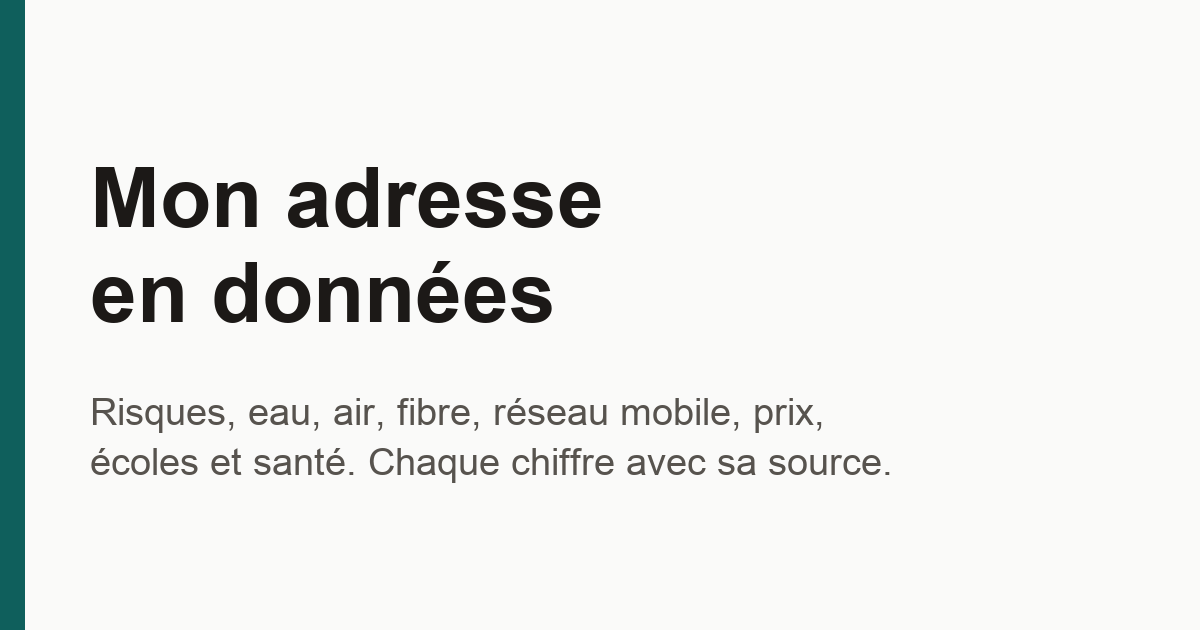
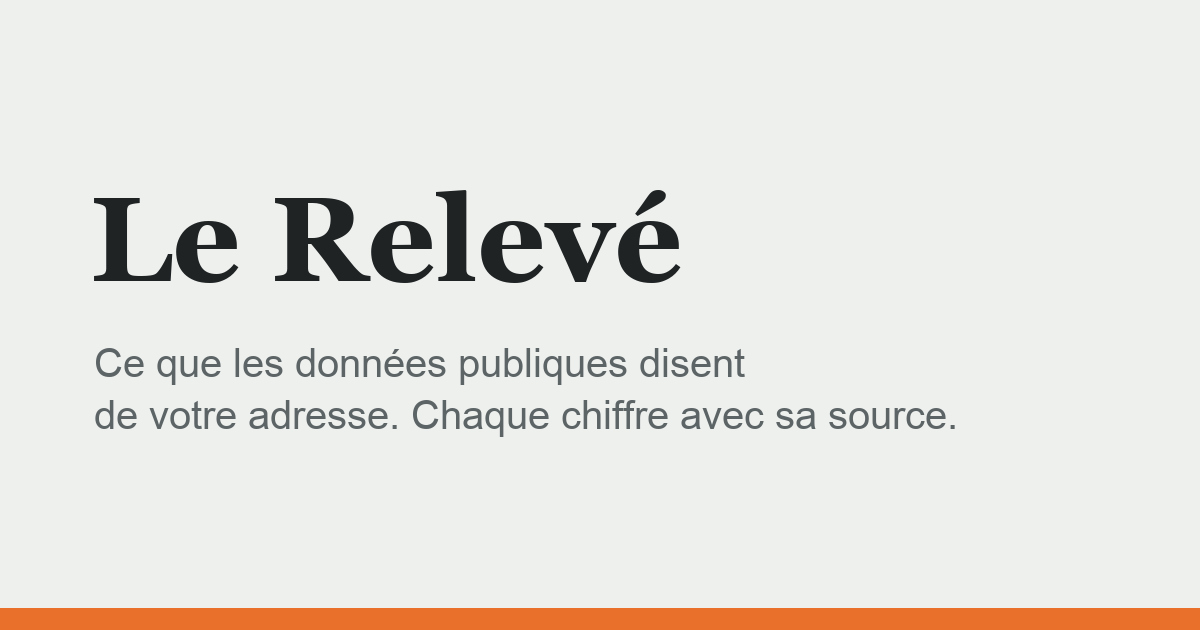
Rename the project to Le Relevé; rewrite the English and French READMEs

diff --git a/src/scripts/app.ts b/src/scripts/app.ts
@@ -265,7 +265,7 @@ const showSheet = async (point: Point) => {
     sheetMap.setRoute(undefined);
     sheetMap.setMarkers([{ ...place, label: place.label, kind: 'main' }]);
     revealTimer = setTimeout(reveal, STAGE_TIMEOUT_MS);
-    document.title = `${place.label} · Mon adresse en données`;
+    document.title = `${place.label} · Le Relevé`;
     meta.textContent = `Commune : ${place.city} (INSEE ${place.citycode}). Précision de la localisation : ${precisionOf(place.type)}.`;
     mountBlocks($('blocks'), BLOCKS, {
       lat: place.lat, lon: place.lon, label: place.label,
@@ -293,7 +293,7 @@ const route = () => {
   if (point) return showSheet(point);
   sheet.hidden = true;
   search.hidden = false;
-  document.title = 'Mon adresse en données';
+  document.title = 'Le Relevé';
   if (location.hash.length > 1) status.textContent = 'Ce lien ne contient pas de coordonnées valides.';
 };
 addEventListener('hashchange', route);

diff --git a/README.fr.md b/README.fr.md
@@ -1,23 +1,71 @@
-# Mon adresse en données
+# Le Relevé
 
 [English](README.md)
 
-Tapez une adresse en France et obtenez une fiche claire et sourcée sur cet endroit : risques naturels et industriels, eau du robinet, air, bruit, fibre et réseau mobile, prix de l'immobilier, écoles, santé et commerces. Les données sont ouvertes mais éparpillées sur une dizaine de sites ; ce projet les rassemble, les explique et cite la source de chaque chiffre.
+**Ce que les données publiques disent de n'importe quelle adresse en France, avec la source de chaque chiffre.**
+
+Tapez une adresse et obtenez une fiche claire sur l'endroit : risques naturels et industriels, qualité de l'eau du robinet, qualité de l'air, bruit des aéroports, fibre et réseau mobile, prix de l'immobilier, écoles, santé et commerces du quotidien. Ces données sont ouvertes mais éparpillées sur une dizaine de sites officiels ; Le Relevé les rassemble, les explique simplement et relie chaque chiffre à sa source.
+
+Pour celles et ceux qui déménagent, achètent, louent, ou sont simplement curieux de leur quartier.
+
+## Ce que montre la fiche
+
+| Thème | Contenu | Précision |
+|---|---|---|
+| Risques | zones inondables, argiles, sismicité, radon, plans de prévention, catastrophes naturelles reconnues depuis 1996, sites pollués et installations classées proches | point ou commune |
+| Eau du robinet | conformité du dernier prélèvement, nitrates, PFAS, pesticides, comparés aux limites réglementaires | réseau d'eau de la commune |
+| Air | indice ATMO du jour et du lendemain | commune |
+| Bruit | plans d'exposition et de gêne sonore des aéroports | zone |
+| Internet fixe | part des locaux raccordables à la fibre, meilleure technologie, débits, date de fermeture du cuivre | commune |
+| Réseau mobile | couverture 4G et 5G par opérateur (simulations des opérateurs) | carreau de 200 m |
+| Immobilier | prix médian au m² des appartements et des maisons, évolution annuelle | commune |
+| Écoles | écoles publiques proches, collège de secteur, lycée le plus proche | point, adresse pour le collège |
+| Santé | pharmacies, généralistes et urgences les plus proches | point |
+| Commerces | boulangerie, supérette, supermarché, poste, banque les plus proches… | point |
+
+Les distances sont **à pied**, calculées sur le réseau routier de l'IGN pour les lieux à moins de 3 km, à vol d'oiseau au-delà.
 
 ## Principes
 
-- **Vie privée** : l'adresse n'arrive jamais sur un serveur à nous. Elle part seulement aux API publiques qui en ont besoin, d'abord le géocodage. Le lien partageable garde le lieu dans le fragment d'URL (`#lat,lon`), que le navigateur n'envoie ni aux serveurs ni à l'outil d'audience.
-- **Sources** : chaque indicateur affiche sa source, sa date de mise à jour et sa précision (adresse, bâtiment, commune). Pas de « note du quartier ».
-- **Limites assumées** : une donnée absente ou seulement communale est signalée. Les cartes de couverture mobile sont des simulations des opérateurs, pas des mesures.
+- **Vie privée.** L'adresse n'arrive jamais sur un serveur à nous : il n'y en a pas. Elle part seulement aux API publiques qui en ont besoin, d'abord le géocodage. Le lieu est gardé dans le fragment de l'URL (`#lat,lon`), que le navigateur n'envoie ni aux serveurs ni à l'outil d'audience sans cookie (GoatCounter).
+- **Sources.** Chaque chiffre affiche sa source, sa date et sa précision. Chaque seuil (limites de qualité de l'eau, classes de l'indice ATMO, zones sismiques et radon, zones de bruit) vient d'un texte réglementaire, cité dans le code.
+- **Pas de note.** Pas de « quartier 7/10 » : le statut d'un thème compte seulement les alertes et vigilances déjà affichées, et une donnée manquante ne devient jamais « rien à signaler ».
+- **Limites assumées.** Données communales, simulations des opérateurs, délais de publication et territoires non couverts sont signalés sur la fiche.
 
-Le détail de chaque source, de son mode d'accès et de ses limites est dans [docs/sources.md](docs/sources.md).
+La liste complète des sources, licences et limites est sur la page *Sources et méthodologie* du site et dans [docs/sources.md](docs/sources.md).
 
-## Architecture
+## Fonctionnement
 
-Un site statique [Astro](https://astro.build) sur GitHub Pages, sans backend ni base de données.
+Un site statique [Astro](https://astro.build), hébergé sur GitHub Pages. Ni serveur, ni base de données, ni framework côté navigateur : quelques petits modules TypeScript.
 
-- Les API publiques rapides et compatibles CORS sont appelées directement depuis le navigateur.
-- Les jeux lourds (historique des ventes, fibre, couverture mobile) sont pré-calculés par des scripts Node dans `scripts/`, vers `public/data/`.
+- **Données en direct**, appelées depuis le navigateur pour les API publiques qui l'autorisent (CORS) : géocodage et calcul d'itinéraire de l'IGN, Géorisques, Hub'Eau, Atmo France, Géoplateforme (bruit), API tabulaire de data.gouv.fr (statistiques DVF, FINESS), annuaire et carte scolaire de l'Éducation nationale.
+- **Données pré-calculées**, pour les jeux trop lourds ou sans API adaptée, produites par des scripts Node dans `public/data/<thème>/<département>.json` et rafraîchies par des GitHub Actions planifiées qui ouvrent une pull request :
+
+| Script | Contenu | Taille | Mise à jour |
+|---|---|---|---|
+| `scripts/risks.mjs` | risques par commune (GASPAR, radon) | 7,6 Mo | mensuelle |
+| `scripts/dvf.mjs` | prix immobiliers annuels par commune | 5,9 Mo | mensuelle |
+| `scripts/internet.mjs` | fibre et internet fixe par commune (Arcep) | 3,5 Mo | trimestrielle |
+| `scripts/shops.mjs` | commerces et services géolocalisés (BPE de l'INSEE) | 6,6 Mo | vérification mensuelle |
+| `scripts/mobile.mjs` | couverture mobile en carreaux de 200 m (Arcep) | ~57 Mo | vérification deux fois par semaine |
+| `scripts/routes.mjs` | grands axes dessinés sur la carte d'accueil | 7 Ko | à la main |
+
+Les carreaux mobiles sont trop lourds pour être versionnés : `data-mobile.yml` les construit (GDAL, 7-Zip) dans un cache GitHub Actions que `deploy.yml` restaure avant le build. Ils ne sont jamais commités.
+
+### Organisation du code
+
+```
+src/
+  pages/        index (recherche et fiche), sources (méthodologie), robots, sitemap
+  layouts/      Base.astro : en-tête, polices, tous les styles
+  scripts/      app.ts (recherche, fiche, carte), map.ts (carte en tuiles), render.ts (blocs)
+  blocks/       un chargeur par thème (appels réseau), ordre BLOCKS / GROUPS
+  lib/          fonctions pures par thème (URL, lecture, vue), testées
+scripts/        chaînes de données (Node, sans dépendance)
+tests/          node --test, avec de vraies réponses d'API dans tests/fixtures/
+```
+
+Un bloc, c'est un `lib/<thème>.ts` pur (construction des URL, lecture des réponses, une `view` qui renvoie faits, éléments et notes) et un petit chargeur `blocks/<thème>.ts`. Le contrat est dans `src/lib/block.ts`. Le code est en anglais, l'interface en français.
 
 ## Développement
 
@@ -30,6 +78,12 @@ npm test        # node --test
 npm run build
 ```
 
+Pour tester la couverture mobile en local, construisez les carreaux de quelques départements (GDAL et 7-Zip nécessaires) : `node scripts/mobile.mjs 75 971`.
+
+## Contribuer
+
+Tickets et pull requests bienvenus, en particulier pour une nouvelle source, la correction d'un chiffre ou d'une formulation, ou l'accessibilité. Merci de garder les principes ci-dessus : une source pour chaque chiffre, aucun seuil inventé, pas de note globale, et l'adresse reste dans le navigateur.
+
 ## Licence
 
-Code sous [licence MIT](LICENSE). Les données appartiennent à leurs producteurs, sous leurs propres licences (surtout Licence Ouverte / Etalab et ODbL), crédités sur la page « Sources et méthodologie » du site.
+Code sous [licence MIT](LICENSE). Les données appartiennent à leurs producteurs (IGN, BRGM, ministères, Arcep, INSEE, DGFiP, Atmo France…), sous leurs propres licences, surtout Licence Ouverte (Etalab) et ODbL, créditées sur la page *Sources et méthodologie*. Polices : Cormorant Garamond et Schibsted Grotesk, licence SIL Open Font License.

diff --git a/README.md b/README.md
@@ -1,23 +1,71 @@
-# Mon adresse en données
+# Le Relevé
 
 [Français](README.fr.md)
 
-Type a French address and get a clear, sourced sheet about the place: natural and industrial risks, tap water, air, noise, fibre and mobile coverage, property prices, schools, health services and everyday shops. The data is open but scattered across a dozen sites; this project gathers it, explains it and cites the source of every figure.
+**What public data says about any address in France, with the source of every figure.**
+
+Type an address and get a clear sheet about the place: natural and industrial risks, tap water quality, air quality, airport noise, fibre and mobile coverage, property prices, nearby schools, health services and everyday shops. The data is open but scattered across a dozen official sites; Le Relevé gathers it, explains it in plain French and links every number to its source.
+
+The site is in French, for people moving house, buying, renting, or simply curious about their neighbourhood.
+
+## What the sheet shows
+
+| Theme | What you get | Precision |
+|---|---|---|
+| Risks | flood zones, clay shrink-swell, seismic zone, radon, risk prevention plans, natural disasters recognised since 1996, polluted sites and classified facilities nearby | point or commune |
+| Tap water | latest sample compliance, nitrates, PFAS, pesticides, against regulatory limits | water network of the commune |
+| Air | today's and tomorrow's ATMO index | commune |
+| Noise | airport noise exposure and nuisance plans | zone |
+| Fixed internet | share of premises with fibre, best technology, speeds, copper network closure date | commune |
+| Mobile | 4G and 5G coverage for each operator (operators' simulations) | 200 m grid |
+| Property | median price per m² for flats and houses, yearly trend | commune |
+| Schools | nearest public schools, catchment *collège*, nearest *lycée* | point, address for the *collège* |
+| Health | nearest pharmacies, GPs and emergency departments | point |
+| Shops | nearest bakery, grocery, supermarket, post office, bank… | point |
+
+Distances are **walking distances** on the IGN road graph for places within 3 km, as the crow flies beyond.
 
 ## Principles
 
-- **Privacy**: the address never reaches a server of ours. It only goes to the public APIs that need it (geocoding first). Shareable links keep the place in the URL fragment (`#lat,lon`), which browsers never send to servers or to the audience counter.
-- **Sources**: every indicator shows its source, its update date and its precision (address, building, commune). No overall "neighbourhood score".
-- **Honest limits**: missing or commune-level data is said so. Mobile coverage maps are operator simulations, not measurements.
+- **Privacy.** The address never reaches a server of ours: there is none. It goes only to the public APIs that need it (geocoding first). The place lives in the URL fragment (`#lat,lon`), which browsers never send to servers or to the cookieless audience counter (GoatCounter).
+- **Sources.** Every figure shows its source, its date and its precision. Every threshold (water limits, air index classes, seismic and radon zones, noise zones) comes from the regulation, cited in the code.
+- **No score.** No "neighbourhood 7/10": a theme's status only counts the alerts and warnings already shown, and missing data is never turned into "nothing to report".
+- **Honest limits.** Commune-level data, operator simulations, sampling delays and missing territories are said so on the sheet.
 
-See [docs/sources.md](docs/sources.md) for each data source, its access mode and its limits.
+The full list of sources, licences and limits is on the site's *Sources et méthodologie* page and in [docs/sources.md](docs/sources.md).
 
-## Architecture
+## How it works
 
-A static [Astro](https://astro.build) site on GitHub Pages, no backend and no database.
+A static [Astro](https://astro.build) site, hosted on GitHub Pages. No backend, no database, no framework on the client: a few small TypeScript modules.
 
-- Fast, CORS-enabled public APIs are called directly from the browser.
-- Heavy datasets (property sales history, fibre, mobile coverage) are pre-computed by Node scripts in `scripts/` into `public/data/`.
+- **Live data**, fetched from the browser for public APIs that allow it (CORS): IGN geocoding and route service, Géorisques, Hub'Eau, Atmo France, the Géoplateforme (noise), data.gouv.fr tabular API (DVF statistics, FINESS), Éducation nationale directory and school catchment map.
+- **Pre-computed data**, for datasets too big or without a suitable API, built by Node scripts into `public/data/<theme>/<department>.json` and refreshed by scheduled GitHub Actions that open a pull request:
+
+| Script | Output | Size | Refresh |
+|---|---|---|---|
+| `scripts/risks.mjs` | risks per commune (GASPAR, radon) | 7.6 MB | monthly |
+| `scripts/dvf.mjs` | yearly property prices per commune | 5.9 MB | monthly |
+| `scripts/internet.mjs` | fibre and fixed internet per commune (Arcep) | 3.5 MB | quarterly |
+| `scripts/shops.mjs` | geolocated shops and services (INSEE BPE) | 6.6 MB | monthly check |
+| `scripts/mobile.mjs` | 200 m mobile coverage tiles (Arcep) | ~57 MB | twice a week check |
+| `scripts/routes.mjs` | road corridors drawn on the home map | 7 KB | by hand |
+
+Mobile tiles are too big to version: `data-mobile.yml` builds them (GDAL, 7-Zip) into an Actions cache that `deploy.yml` restores before the build. They are never committed.
+
+### Code map
+
+```
+src/
+  pages/        index (search and sheet), sources (methodology), robots, sitemap
+  layouts/      Base.astro: head, fonts, all styles
+  scripts/      app.ts (search, sheet, stage), map.ts (tile map), render.ts (blocks)
+  blocks/       one loader per theme (fetching), and GROUPS / BLOCKS order
+  lib/          pure functions per theme (URLs, parsing, views), tested
+scripts/        data pipelines (Node, no dependency)
+tests/          node --test, with real API answers in tests/fixtures/
+```
+
+A block is a pure `lib/<theme>.ts` (URL builders, parsers, a `view` returning facts, items and notes) plus a small `blocks/<theme>.ts` loader. See `src/lib/block.ts` for the contract.
 
 ## Development
 
@@ -30,6 +78,12 @@ npm test        # node --test
 npm run build
 ```
 
+To try mobile coverage locally, build the tiles for a few departments (needs GDAL and 7-Zip): `node scripts/mobile.mjs 75 971`.
+
+## Contributing
+
+Issues and pull requests are welcome, especially new sources, corrections of a figure or a wording, and accessibility fixes. Please keep the principles above: a source for every figure, no invented threshold, no global score, and the address stays in the browser.
+
 ## Licence
 
-Code under the [MIT licence](LICENSE). Data belongs to its producers, under their own licences (mostly Licence Ouverte / Etalab and ODbL), credited on the site's "Sources et méthodologie" page.
+Code under the [MIT licence](LICENSE). Data belongs to its producers (IGN, BRGM, ministries, Arcep, INSEE, DGFiP, Atmo France…) under their own licences, mostly Licence Ouverte (Etalab) and ODbL, credited on the *Sources et méthodologie* page. Fonts: Cormorant Garamond and Schibsted Grotesk, SIL Open Font License.
